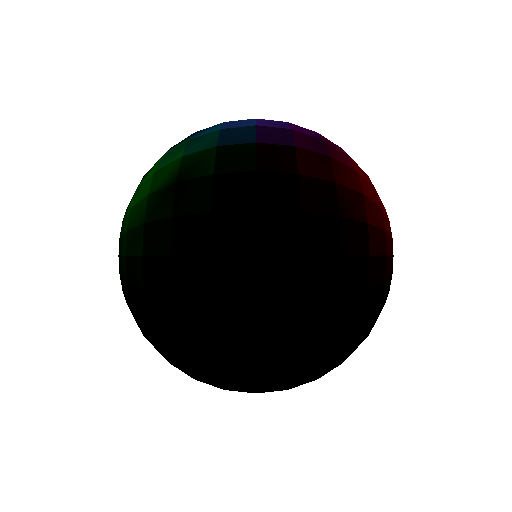
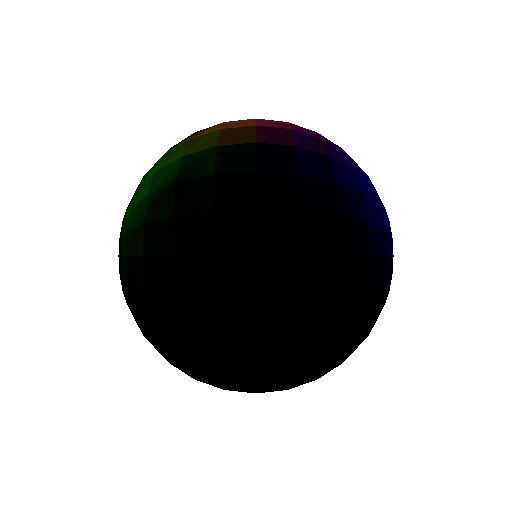
fix: improve image saving by clipping values and converting color format

Changed region(s): [[0.625, 0.2812, 0.7812, 0.5], [0.3438, 0.2188, 0.5625, 0.3125]]

diff --git a/project3/demo.py b/project3/demo.py
@@ -6,7 +6,8 @@ import cv2
 from project3_utils import MatPhong, render_object
 
 def save_img(arr, name):
-    cv2.imwrite(name, (arr).astype(np.uint8))
+    img = np.clip(arr, 0, 255).astype(np.uint8)
+    cv2.imwrite(name, cv2.cvtColor(img, cv2.COLOR_RGB2BGR))
 
 def main():
     tex_im  = np.array(Image.open("../assets/project3/Mona-Lisa-Exist-in-Real-Life-2635825581.jpg"))  # HxWx3
